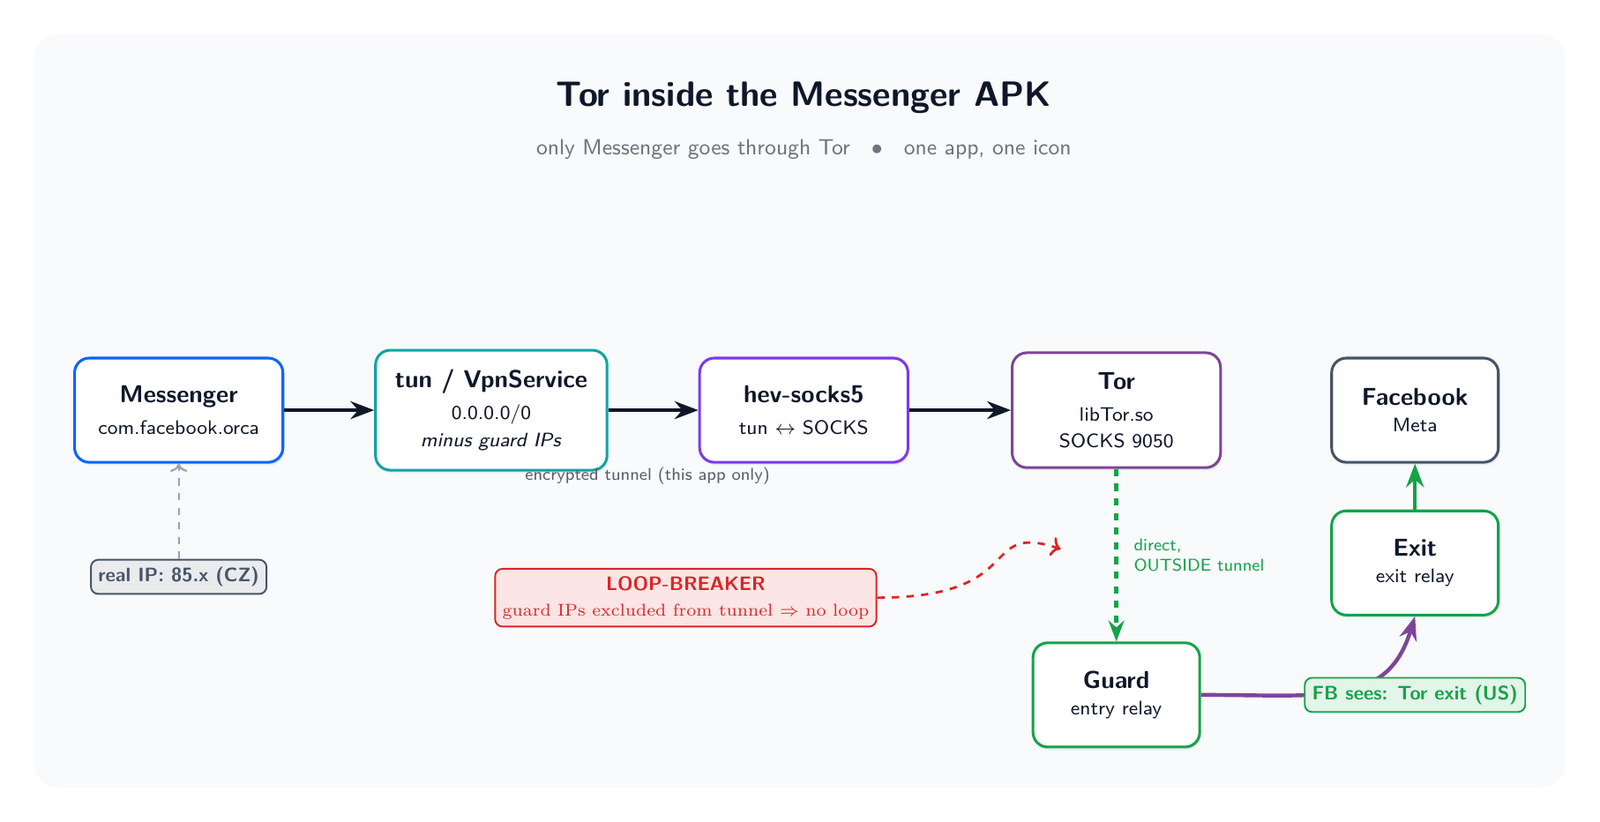
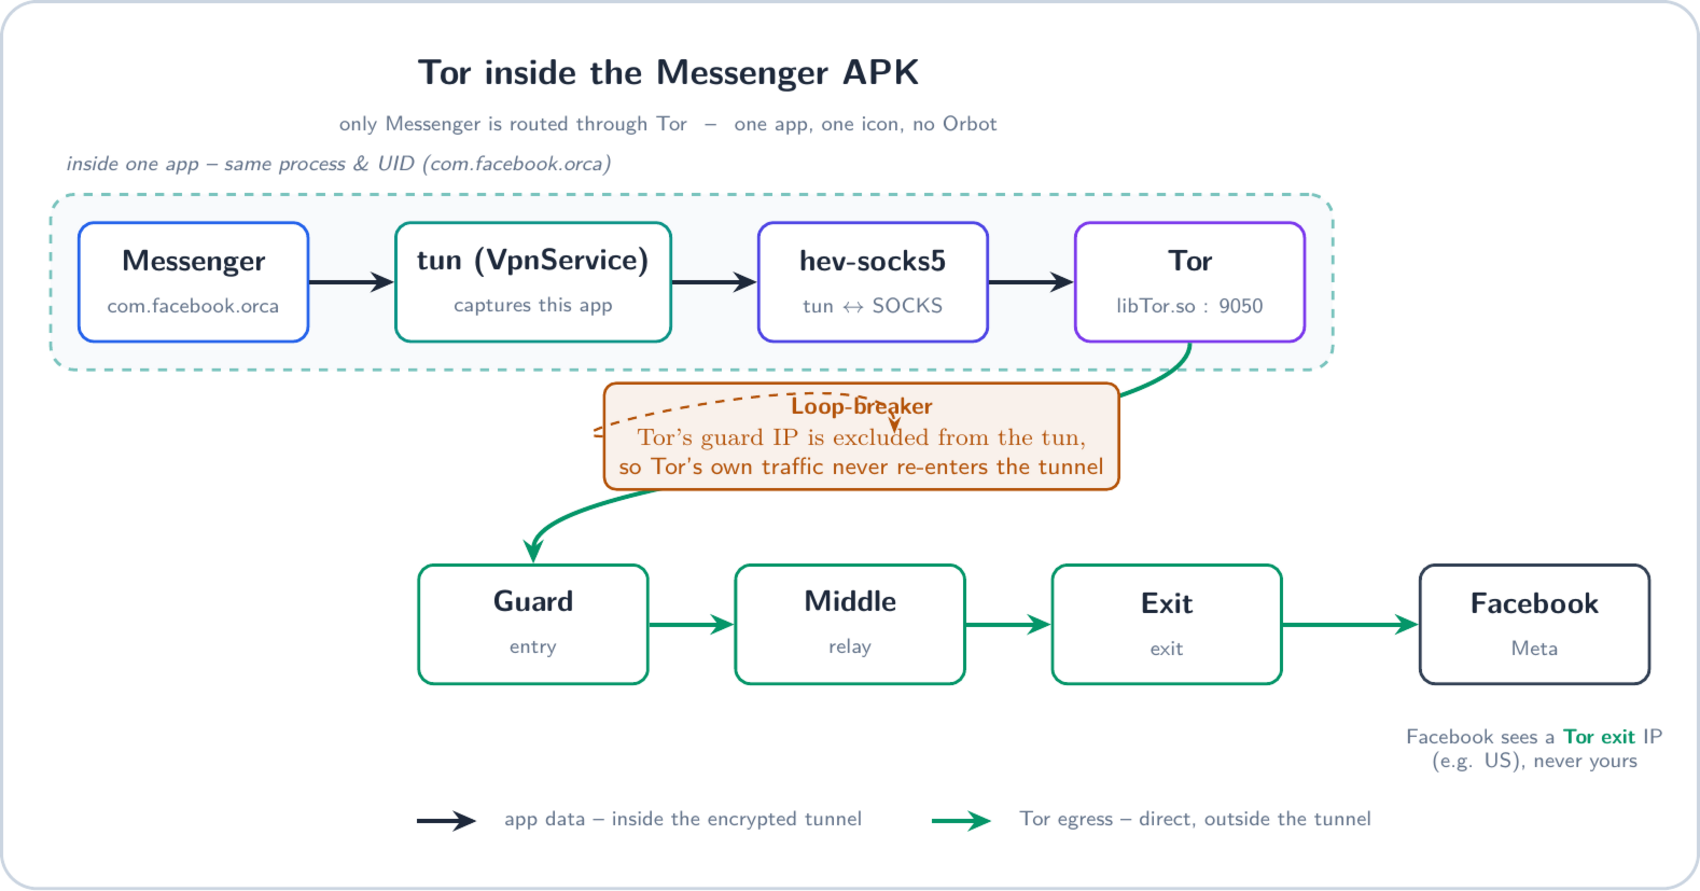
Redraw TikZ diagrams from scratch (cleaner, professional)
- Restrained cohesive palette; explicit layers so nothing overflows the card.
- architecture: app chain wrapped in a "same process & UID" dashed container to
  motivate the loop-breaker; Tor egress shown as a separate emerald path with a
  clear loop-breaker callout and a legend.
- lifecycle: two-state foreground/background with battery facts strip.

diff --git a/tor-inject/docs/architecture.tex b/tor-inject/docs/architecture.tex
@@ -1,75 +1,101 @@
-\documentclass[border=14pt]{standalone}
+\documentclass[border=0pt]{standalone}
 \usepackage{fontspec}
 \usepackage{tikz}
-\usetikzlibrary{arrows.meta,positioning,backgrounds,fit,calc,shapes.geometric,shadows}
+\usetikzlibrary{arrows.meta,positioning,backgrounds,fit,calc}
 
-\definecolor{cMsg}{HTML}{0866FF}
-\definecolor{cTun}{HTML}{0EA5A4}
-\definecolor{cHev}{HTML}{7C3AED}
-\definecolor{cTor}{HTML}{7D4698}
-\definecolor{cRelay}{HTML}{16A34A}
-\definecolor{cFb}{HTML}{475569}
-\definecolor{cInk}{HTML}{0F172A}
-\definecolor{cBg}{HTML}{F8FAFC}
-\definecolor{cCard}{HTML}{FFFFFF}
-\definecolor{cLine}{HTML}{94A3B8}
-\definecolor{cDanger}{HTML}{DC2626}
+% --- professional, restrained palette ---
+\definecolor{ink}{HTML}{1E293B}
+\definecolor{sub}{HTML}{64748B}
+\definecolor{page}{HTML}{FFFFFF}
+\definecolor{card}{HTML}{F8FAFC}
+\definecolor{line}{HTML}{CBD5E1}
+\definecolor{app}{HTML}{2563EB}
+\definecolor{vpn}{HTML}{0D9488}
+\definecolor{hev}{HTML}{4F46E5}
+\definecolor{tor}{HTML}{7C3AED}
+\definecolor{net}{HTML}{059669}
+\definecolor{fb}{HTML}{334155}
+\definecolor{warn}{HTML}{B45309}
+
+% text macros used inside nodes
+\newcommand{\hd}[1]{{\bfseries #1}}
+\newcommand{\subt}[1]{{\scriptsize\color{sub} #1}}
+
+% back-to-front: page card (bg2) behind the app container (bg) behind nodes (main)
+\pgfdeclarelayer{bg}\pgfdeclarelayer{bg2}\pgfsetlayers{bg2,bg,main}
 
 \begin{document}
 \begin{tikzpicture}[
   font=\sffamily,
-  box/.style={rounded corners=6pt, draw=#1, line width=1.1pt, fill=cCard,
-              text=cInk, align=center, inner sep=8pt, minimum height=15mm,
-              minimum width=30mm, drop shadow={shadow xshift=0.6pt, shadow yshift=-1.2pt, opacity=0.12}},
-  chip/.style={rounded corners=3pt, fill=#1!12, draw=#1, line width=0.7pt, text=#1,
-               font=\sffamily\footnotesize\bfseries, inner sep=3pt},
-  flow/.style={-{Stealth[length=3.4mm]}, line width=1.6pt, draw=cInk},
-  back/.style={-{Stealth[length=3mm]}, line width=1.3pt, draw=cRelay, dashed},
-  lbl/.style={font=\sffamily\scriptsize, text=cInk!70, align=center},
+  node distance=10mm,
+  box/.style={rounded corners=5pt, draw=#1, line width=1pt, fill=white, text=ink,
+              align=center, inner sep=7pt, minimum width=27mm, minimum height=14mm},
+  sublbl/.style={font=\sffamily\scriptsize, text=sub},
+  data/.style={-{Stealth[length=2.8mm,width=2.4mm]}, line width=1.4pt, draw=ink},
+  egress/.style={-{Stealth[length=2.8mm,width=2.4mm]}, line width=1.4pt, draw=net},
 ]
 
-% --- title ---
-\node[font=\sffamily\Large\bfseries, text=cInk] (title) at (9,4.5)
-  {Tor inside the Messenger APK};
-\node[font=\sffamily\small, text=cInk!60] at (9,3.75)
-  {only Messenger goes through Tor \; $\bullet$ \; one app, one icon};
+% ============ TITLE ============
+\node[font=\sffamily\large\bfseries, text=ink] (h1) {Tor inside the Messenger APK};
+\node[sublbl, below=1pt of h1] (h2)
+  {only Messenger is routed through Tor \, -- \, one app, one icon, no Orbot};
 
-% --- main pipeline nodes ---
-\node[box=cMsg]  (msg) at (0,0)   {\textbf{Messenger}\\[1pt]\footnotesize com.facebook.orca};
-\node[box=cTun]  (tun) at (4.5,0) {\textbf{tun / VpnService}\\[1pt]\footnotesize 0.0.0.0/0 \\[-1pt]\footnotesize \emph{minus guard IPs}};
-\node[box=cHev]  (hev) at (9.0,0) {\textbf{hev-socks5}\\[1pt]\footnotesize tun $\leftrightarrow$ SOCKS};
-\node[box=cTor]  (tor) at (13.5,0){\textbf{Tor}\\[1pt]\footnotesize libTor.so \\[-1pt]\footnotesize SOCKS 9050};
+% ============ ROW 1: inside the app (same UID) ============
+\node[box=app, below=14mm of h1.south, xshift=-56mm] (msg) {\hd{Messenger}\\[2pt]\subt{com.facebook.orca}};
+\node[box=vpn, right=of msg] (tun) {\hd{tun (VpnService)}\\[2pt]\subt{captures this app}};
+\node[box=hev, right=of tun] (hev) {\hd{hev-socks5}\\[2pt]\subt{tun $\leftrightarrow$ SOCKS}};
+\node[box=tor, right=of hev] (tor) {\hd{Tor}\\[2pt]\subt{libTor.so : 9050}};
 
-\node[box=cRelay, minimum width=24mm] (guard) at (13.5,-4.1) {\textbf{Guard}\\[-1pt]\footnotesize entry relay};
-\node[box=cRelay, minimum width=24mm] (exit)  at (17.8,-2.2) {\textbf{Exit}\\[-1pt]\footnotesize exit relay};
-\node[box=cFb,   minimum width=24mm] (fb)    at (17.8,0)    {\textbf{Facebook}\\[-1pt]\footnotesize Meta};
+\draw[data] (msg) -- (tun);
+\draw[data] (tun) -- (hev);
+\draw[data] (hev) -- (tor);
 
-% --- forward flow (app -> tunnel -> Tor) ---
-\draw[flow] (msg) -- (tun);
-\draw[flow] (tun) -- (hev);
-\draw[flow] (hev) -- (tor);
+% dashed container: same process / same UID
+\begin{pgfonlayer}{bg}
+  \node[draw=vpn!55, dashed, line width=1pt, rounded corners=8pt, fill=card,
+        inner sep=9pt, fit=(msg)(tun)(hev)(tor)] (appbox) {};
+\end{pgfonlayer}
+\node[font=\sffamily\scriptsize\itshape, text=sub, anchor=south west]
+  at ([xshift=2pt,yshift=2pt]appbox.north west)
+  {inside one app -- same process \& UID (com.facebook.orca)};
 
-% --- Tor -> guard: BYPASS the tunnel (guard IPs excluded) = loop-breaker ---
-\draw[back, line width=1.7pt] (tor.south) -- (guard.north)
-  node[midway, right=3pt, lbl, text=cRelay, align=left]{direct,\\OUTSIDE tunnel};
-\draw[flow, draw=cTor] (guard.east) .. controls +(1.8,0) and +(-0.4,-1.3) .. (exit.south);
-\draw[flow, draw=cRelay] (exit) -- (fb);
+% ============ ROW 2: Tor network -> Facebook ============
+\node[box=net, below=26mm of tun] (guard) {\hd{Guard}\\[2pt]\subt{entry}};
+\node[box=net, right=of guard]     (relay) {\hd{Middle}\\[2pt]\subt{relay}};
+\node[box=net, right=of relay]     (exit)  {\hd{Exit}\\[2pt]\subt{exit}};
+\node[box=fb,  right=16mm of exit] (face)  {\hd{Facebook}\\[2pt]\subt{Meta}};
 
-% --- flow label under tunnel ---
-\node[lbl] at (6.75,-0.95) {encrypted tunnel (this app only)};
+% Tor egress: Tor -> guard (curves down on the left of the network row)
+\draw[egress] (tor.south) .. controls +(0,-12mm) and +(0,12mm) .. (guard.north);
+\draw[egress] (guard) -- (relay);
+\draw[egress] (relay) -- (exit);
+\draw[egress] (exit) -- (face);
 
-% --- loop-breaker callout ---
-\node[chip=cDanger, align=center] (lb) at (7.3,-2.7)
-  {LOOP-BREAKER\\[1pt]\normalfont\scriptsize guard IPs excluded from tunnel $\Rightarrow$ no loop};
-\draw[->, cDanger, line width=1pt, dashed] (lb.east) .. controls +(2.2,0) and +(-1.2,0.4) .. (12.7,-2.0);
+% loop-breaker callout, placed clearly in the open middle area
+\node[rounded corners=4pt, draw=warn, line width=0.9pt, fill=warn!8, text=warn,
+      align=center, font=\sffamily\footnotesize, inner sep=5pt]
+      (lb) at ($(hev)!0.5!(relay) + (0,2mm)$)
+  {\bfseries Loop-breaker\\[1pt]\normalfont Tor's guard IP is excluded from the tun,\\
+   so Tor's own traffic never re-enters the tunnel};
+\draw[-{Stealth[length=2mm]}, warn, line width=0.8pt, dashed]
+  (lb.west) .. controls +(-10mm,0) and +(0,10mm) .. ($(tor.south)!0.45!(guard.north)+(0,1mm)$);
 
-% --- IP proof chips ---
-\node[chip=cFb]   (realip) at (0,-2.4) {real IP: 85.x (CZ)};
-\node[chip=cRelay](torip)  at (17.8,-4.1){FB sees: Tor exit (US)};
-\draw[->, cLine, line width=0.8pt, dashed] (realip) -- (msg);
+% caption under Facebook
+\node[sublbl, below=4mm of face, align=center, text width=36mm]
+  {Facebook sees a \textbf{\color{net}Tor exit} IP\\ (e.g. US), never yours};
 
-\begin{scope}[on background layer]
-  \node[fill=cBg, rounded corners=10pt, fit=(title)(msg)(tun)(hev)(tor)(guard)(exit)(fb)(realip)(torip)(lb), inner sep=16pt] {};
-\end{scope}
+% ============ legend ============
+\node[sublbl, anchor=west] (lgAt) at ($(guard.south west)+(9mm,-16mm)$)
+  {app data -- inside the encrypted tunnel};
+\draw[data] ([xshift=-9mm]lgAt.west) -- ([xshift=-2mm]lgAt.west);
+\node[sublbl, anchor=west] (lgBt) at ($(lgAt.east)+(16mm,0)$)
+  {Tor egress -- direct, outside the tunnel};
+\draw[egress] ([xshift=-9mm]lgBt.west) -- ([xshift=-2mm]lgBt.west);
+
+% ============ background card ============
+\begin{pgfonlayer}{bg2}
+  \node[fill=page, draw=line, line width=1pt, rounded corners=12pt,
+        fit=(h1)(h2)(appbox)(guard)(relay)(exit)(face)(lb)(lgAt)(lgBt), inner sep=16pt] {};
+\end{pgfonlayer}
 \end{tikzpicture}
 \end{document}

diff --git a/tor-inject/docs/lifecycle.tex b/tor-inject/docs/lifecycle.tex
@@ -1,51 +1,60 @@
-\documentclass[border=14pt]{standalone}
+\documentclass[border=0pt]{standalone}
 \usepackage{fontspec}
 \usepackage{tikz}
-\usetikzlibrary{arrows.meta,positioning,backgrounds,fit,calc,shadows}
+\usetikzlibrary{arrows.meta,positioning,backgrounds,fit,calc}
 
-\definecolor{cOn}{HTML}{16A34A}
-\definecolor{cOff}{HTML}{64748B}
-\definecolor{cInk}{HTML}{0F172A}
-\definecolor{cBg}{HTML}{F8FAFC}
-\definecolor{cCard}{HTML}{FFFFFF}
-\definecolor{cAmber}{HTML}{D97706}
-\definecolor{cMsg}{HTML}{0866FF}
+\definecolor{ink}{HTML}{1E293B}
+\definecolor{sub}{HTML}{64748B}
+\definecolor{page}{HTML}{FFFFFF}
+\definecolor{card}{HTML}{F8FAFC}
+\definecolor{line}{HTML}{CBD5E1}
+\definecolor{on}{HTML}{059669}      % emerald: Tor ON
+\definecolor{off}{HTML}{64748B}     % slate: Tor OFF
+\definecolor{app}{HTML}{2563EB}
+
+\newcommand{\hd}[1]{{\bfseries #1}}
+\newcommand{\subt}[1]{{\scriptsize\color{sub} #1}}
+
+\pgfdeclarelayer{bg}\pgfdeclarelayer{bg2}\pgfsetlayers{bg2,bg,main}
 
 \begin{document}
 \begin{tikzpicture}[
   font=\sffamily,
-  state/.style={rounded corners=8pt, draw=#1, line width=1.2pt, fill=cCard, text=cInk,
-                align=center, inner sep=10pt, minimum width=48mm, minimum height=24mm,
-                drop shadow={shadow xshift=0.6pt, shadow yshift=-1.2pt, opacity=0.12}},
-  arr/.style={-{Stealth[length=3.2mm]}, line width=1.5pt, draw=cInk},
-  pill/.style={rounded corners=10pt, fill=#1!14, draw=#1, line width=0.8pt, text=#1,
-               font=\sffamily\footnotesize\bfseries, inner sep=4pt},
-  note/.style={font=\sffamily\scriptsize, text=cInk!65, align=center},
+  state/.style={rounded corners=7pt, draw=#1, line width=1.2pt, fill=white, text=ink,
+                align=center, inner sep=10pt, minimum width=54mm, minimum height=26mm},
+  sublbl/.style={font=\sffamily\scriptsize, text=sub},
+  tr/.style={-{Stealth[length=3mm,width=2.6mm]}, line width=1.4pt, draw=ink},
+  fact/.style={rounded corners=5pt, draw=#1!55, fill=#1!8, text=#1,
+               font=\sffamily\footnotesize, inner sep=6pt, align=center},
 ]
 
-\node[font=\sffamily\Large\bfseries, text=cInk] (t) at (5.5,3.2)
-  {Tor runs only when needed \; --\; battery saving};
+% title
+\node[font=\sffamily\large\bfseries, text=ink] (h1)
+  {Tor runs only while Messenger is open};
+\node[sublbl, below=1pt of h1] (h2) {saves battery -- nothing runs in the background};
 
-% states
-\node[state=cOn]  (on)  at (0,0)
-  {\textbf{\textcolor{cMsg}{Messenger OPEN}}\\[3pt]
-   \textcolor{cOn}{\textbf{Tor ON}} $\bullet$ VPN active\\[1pt]
-   \footnotesize traffic via Tor};
-\node[state=cOff] (off) at (11,0)
-  {\textbf{Messenger CLOSED}\\[3pt]
-   \textcolor{cOff}{\textbf{Tor OFF}} $\bullet$ no VPN\\[1pt]
-   \footnotesize 0 mA in background};
+% two states
+\node[state=on, below=12mm of h1.south, xshift=-38mm] (on) {%
+  \hd{\textcolor{app}{Messenger} -- foreground}\\[3pt]
+  \textcolor{on}{\hd{Tor ON}} \; $\bullet$ \; VPN active\\[2pt]
+  \subt{traffic routed through Tor}};
+\node[state=off, right=32mm of on] (off) {%
+  \hd{Messenger -- background / closed}\\[3pt]
+  \textcolor{off}{\hd{Tor OFF}} \; $\bullet$ \; no VPN\\[2pt]
+  \subt{0 mA, no key in status bar}};
 
 % transitions
-\draw[arr] ($(on.east)+(0,0.5)$) -- node[above, note]{close\\ + 25 s delay} ($(off.west)+(0,0.5)$);
-\draw[arr] ($(off.west)-(0,0.5)$) -- node[below, note]{open Messenger} ($(on.east)-(0,0.5)$);
+\draw[tr] ([yshift=4mm]on.east) -- node[above, sublbl, align=center]{backgrounded\\ + 25 s} ([yshift=4mm]off.west);
+\draw[tr] ([yshift=-4mm]off.west) -- node[below, sublbl]{app opened} ([yshift=-4mm]on.east);
 
-% chips
-\node[pill=cOn]    at (0,-2.4) {Tor idle = 0\% CPU, 94 MB};
-\node[pill=cOff]   at (11,-2.4){after close: no VPN key};
+% facts strip
+\node[fact=on,  below=12mm of on.south]  (f1) {Tor idle: \hd{0\% CPU}, 94 MB};
+\node[fact=off, below=12mm of off.south] (f2) {closed: \hd{zero} background drain};
 
-\begin{scope}[on background layer]
-  \node[fill=cBg, rounded corners=10pt, fit=(t)(on)(off), inner sep=16pt] {};
-\end{scope}
+% background card
+\begin{pgfonlayer}{bg2}
+  \node[fill=page, draw=line, line width=1pt, rounded corners=12pt,
+        fit=(h1)(h2)(on)(off)(f1)(f2), inner sep=16pt] {};
+\end{pgfonlayer}
 \end{tikzpicture}
 \end{document}
